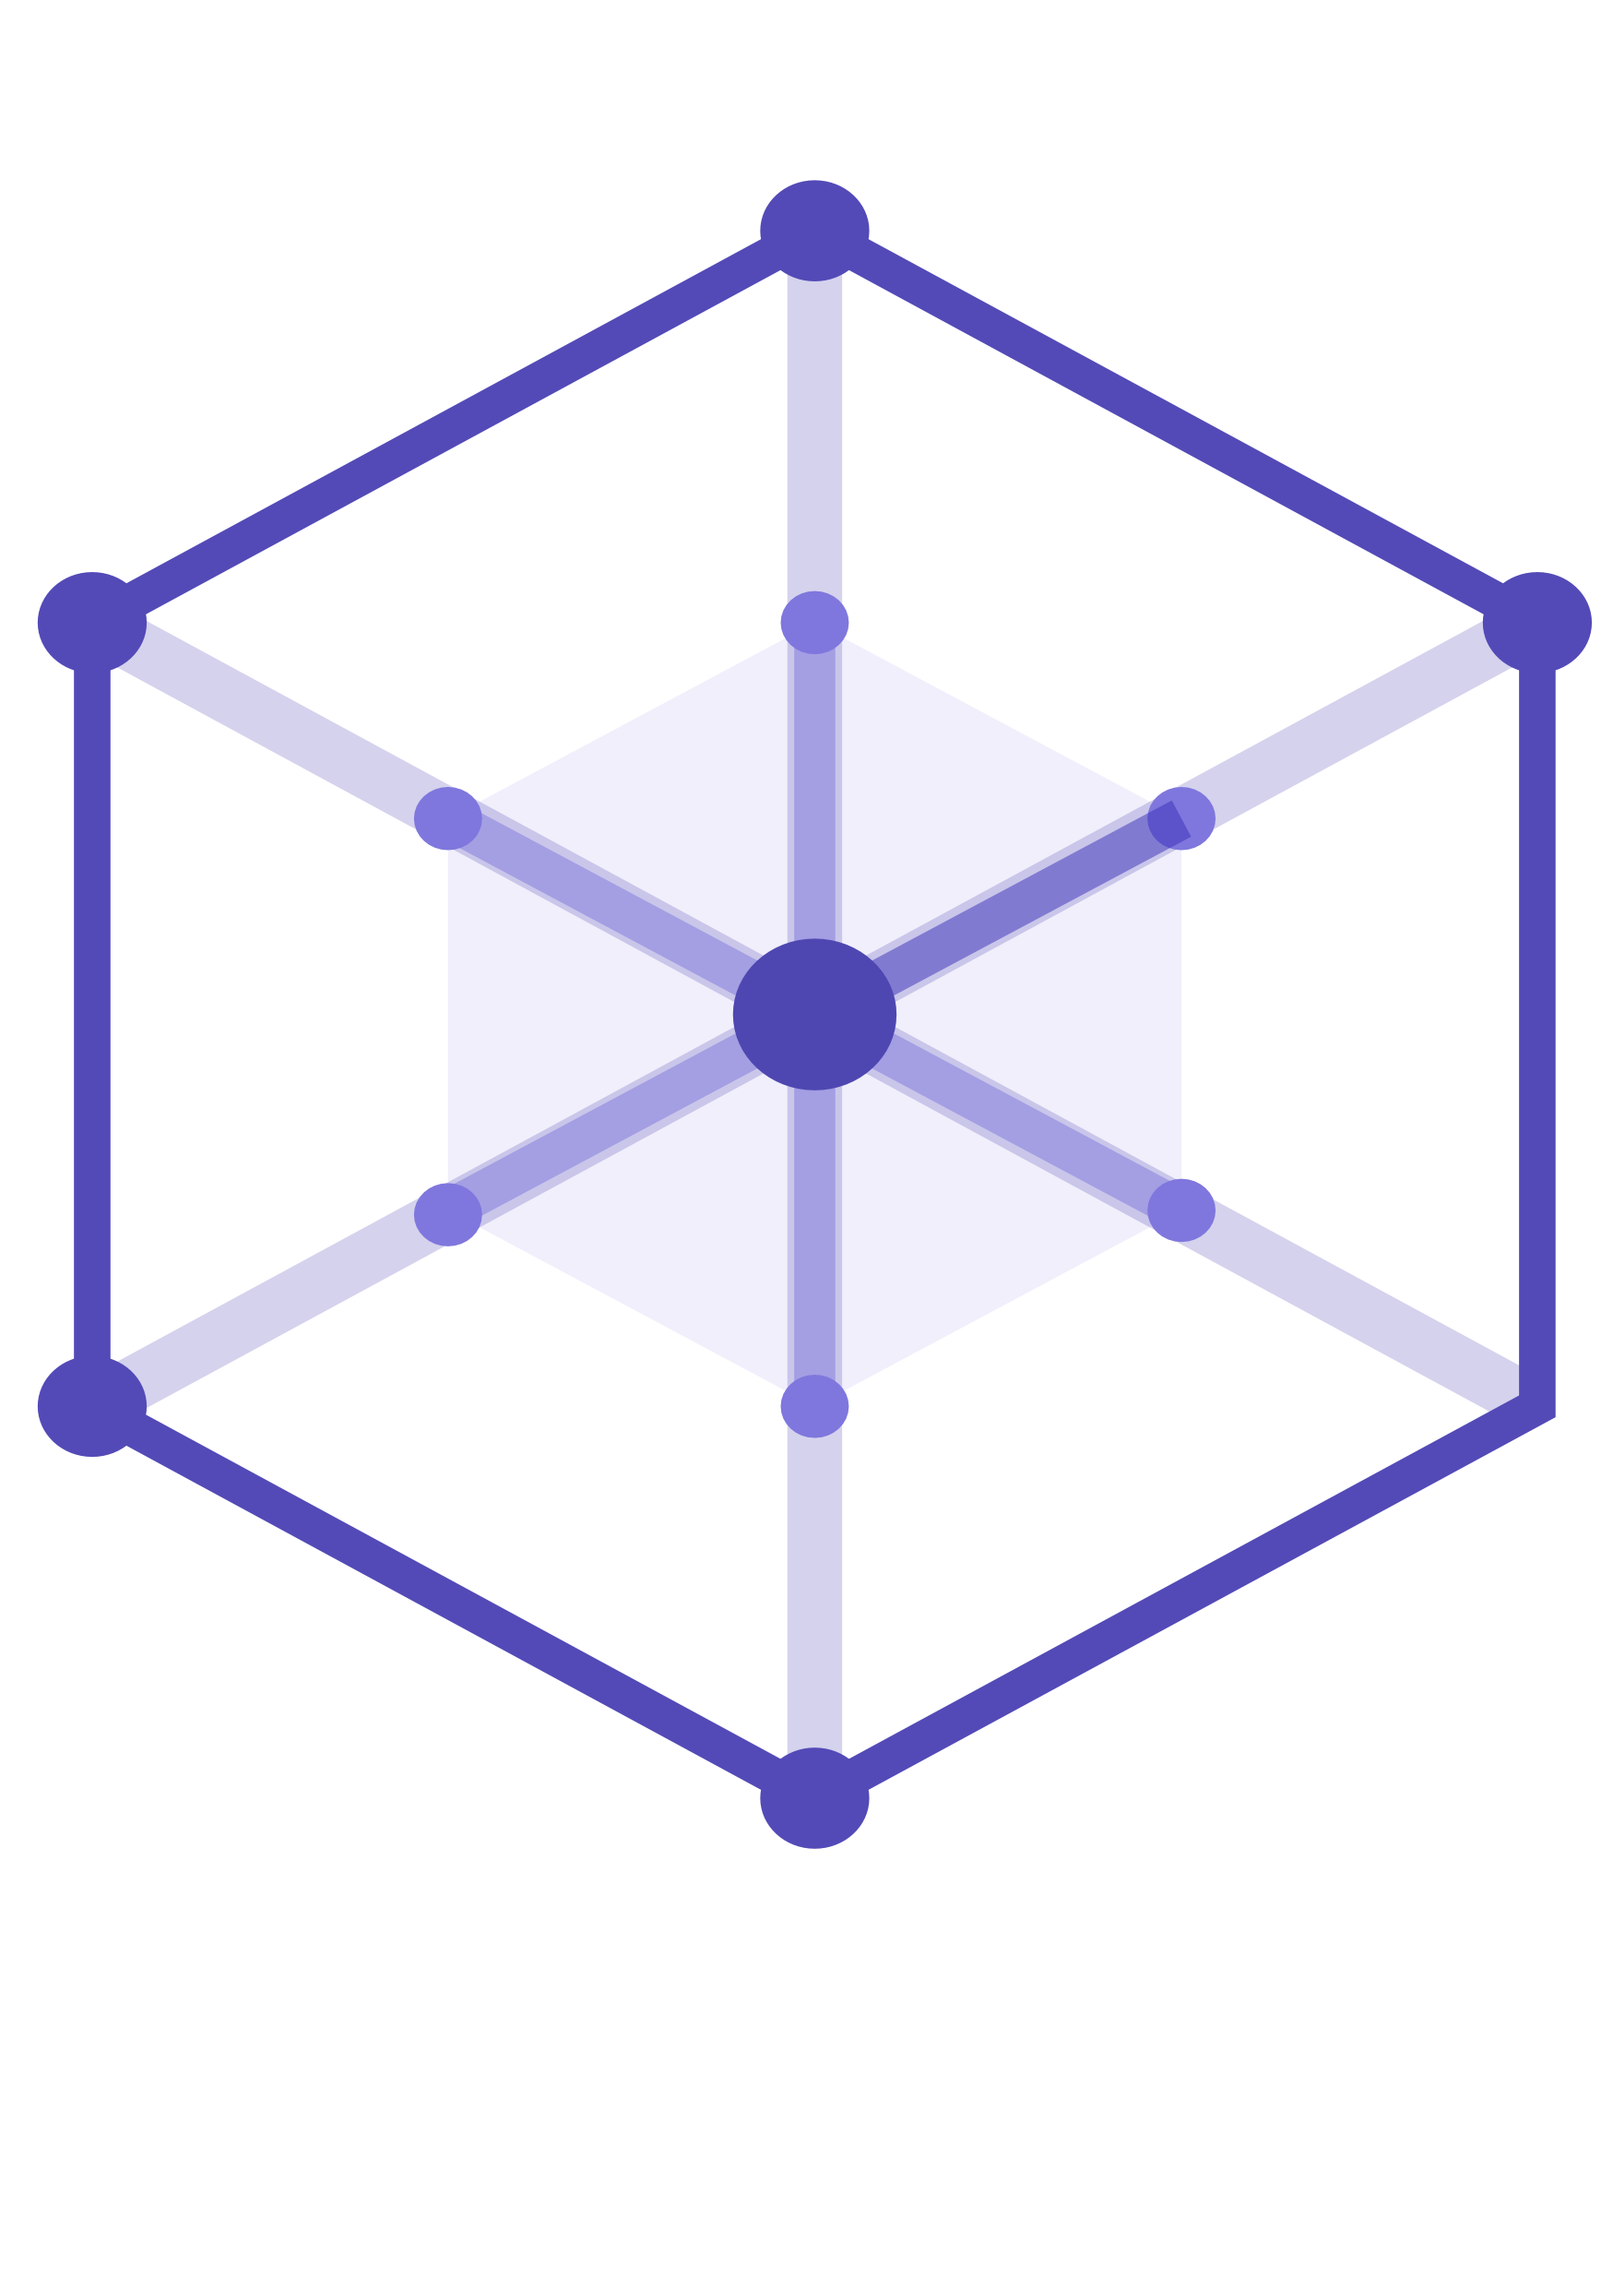
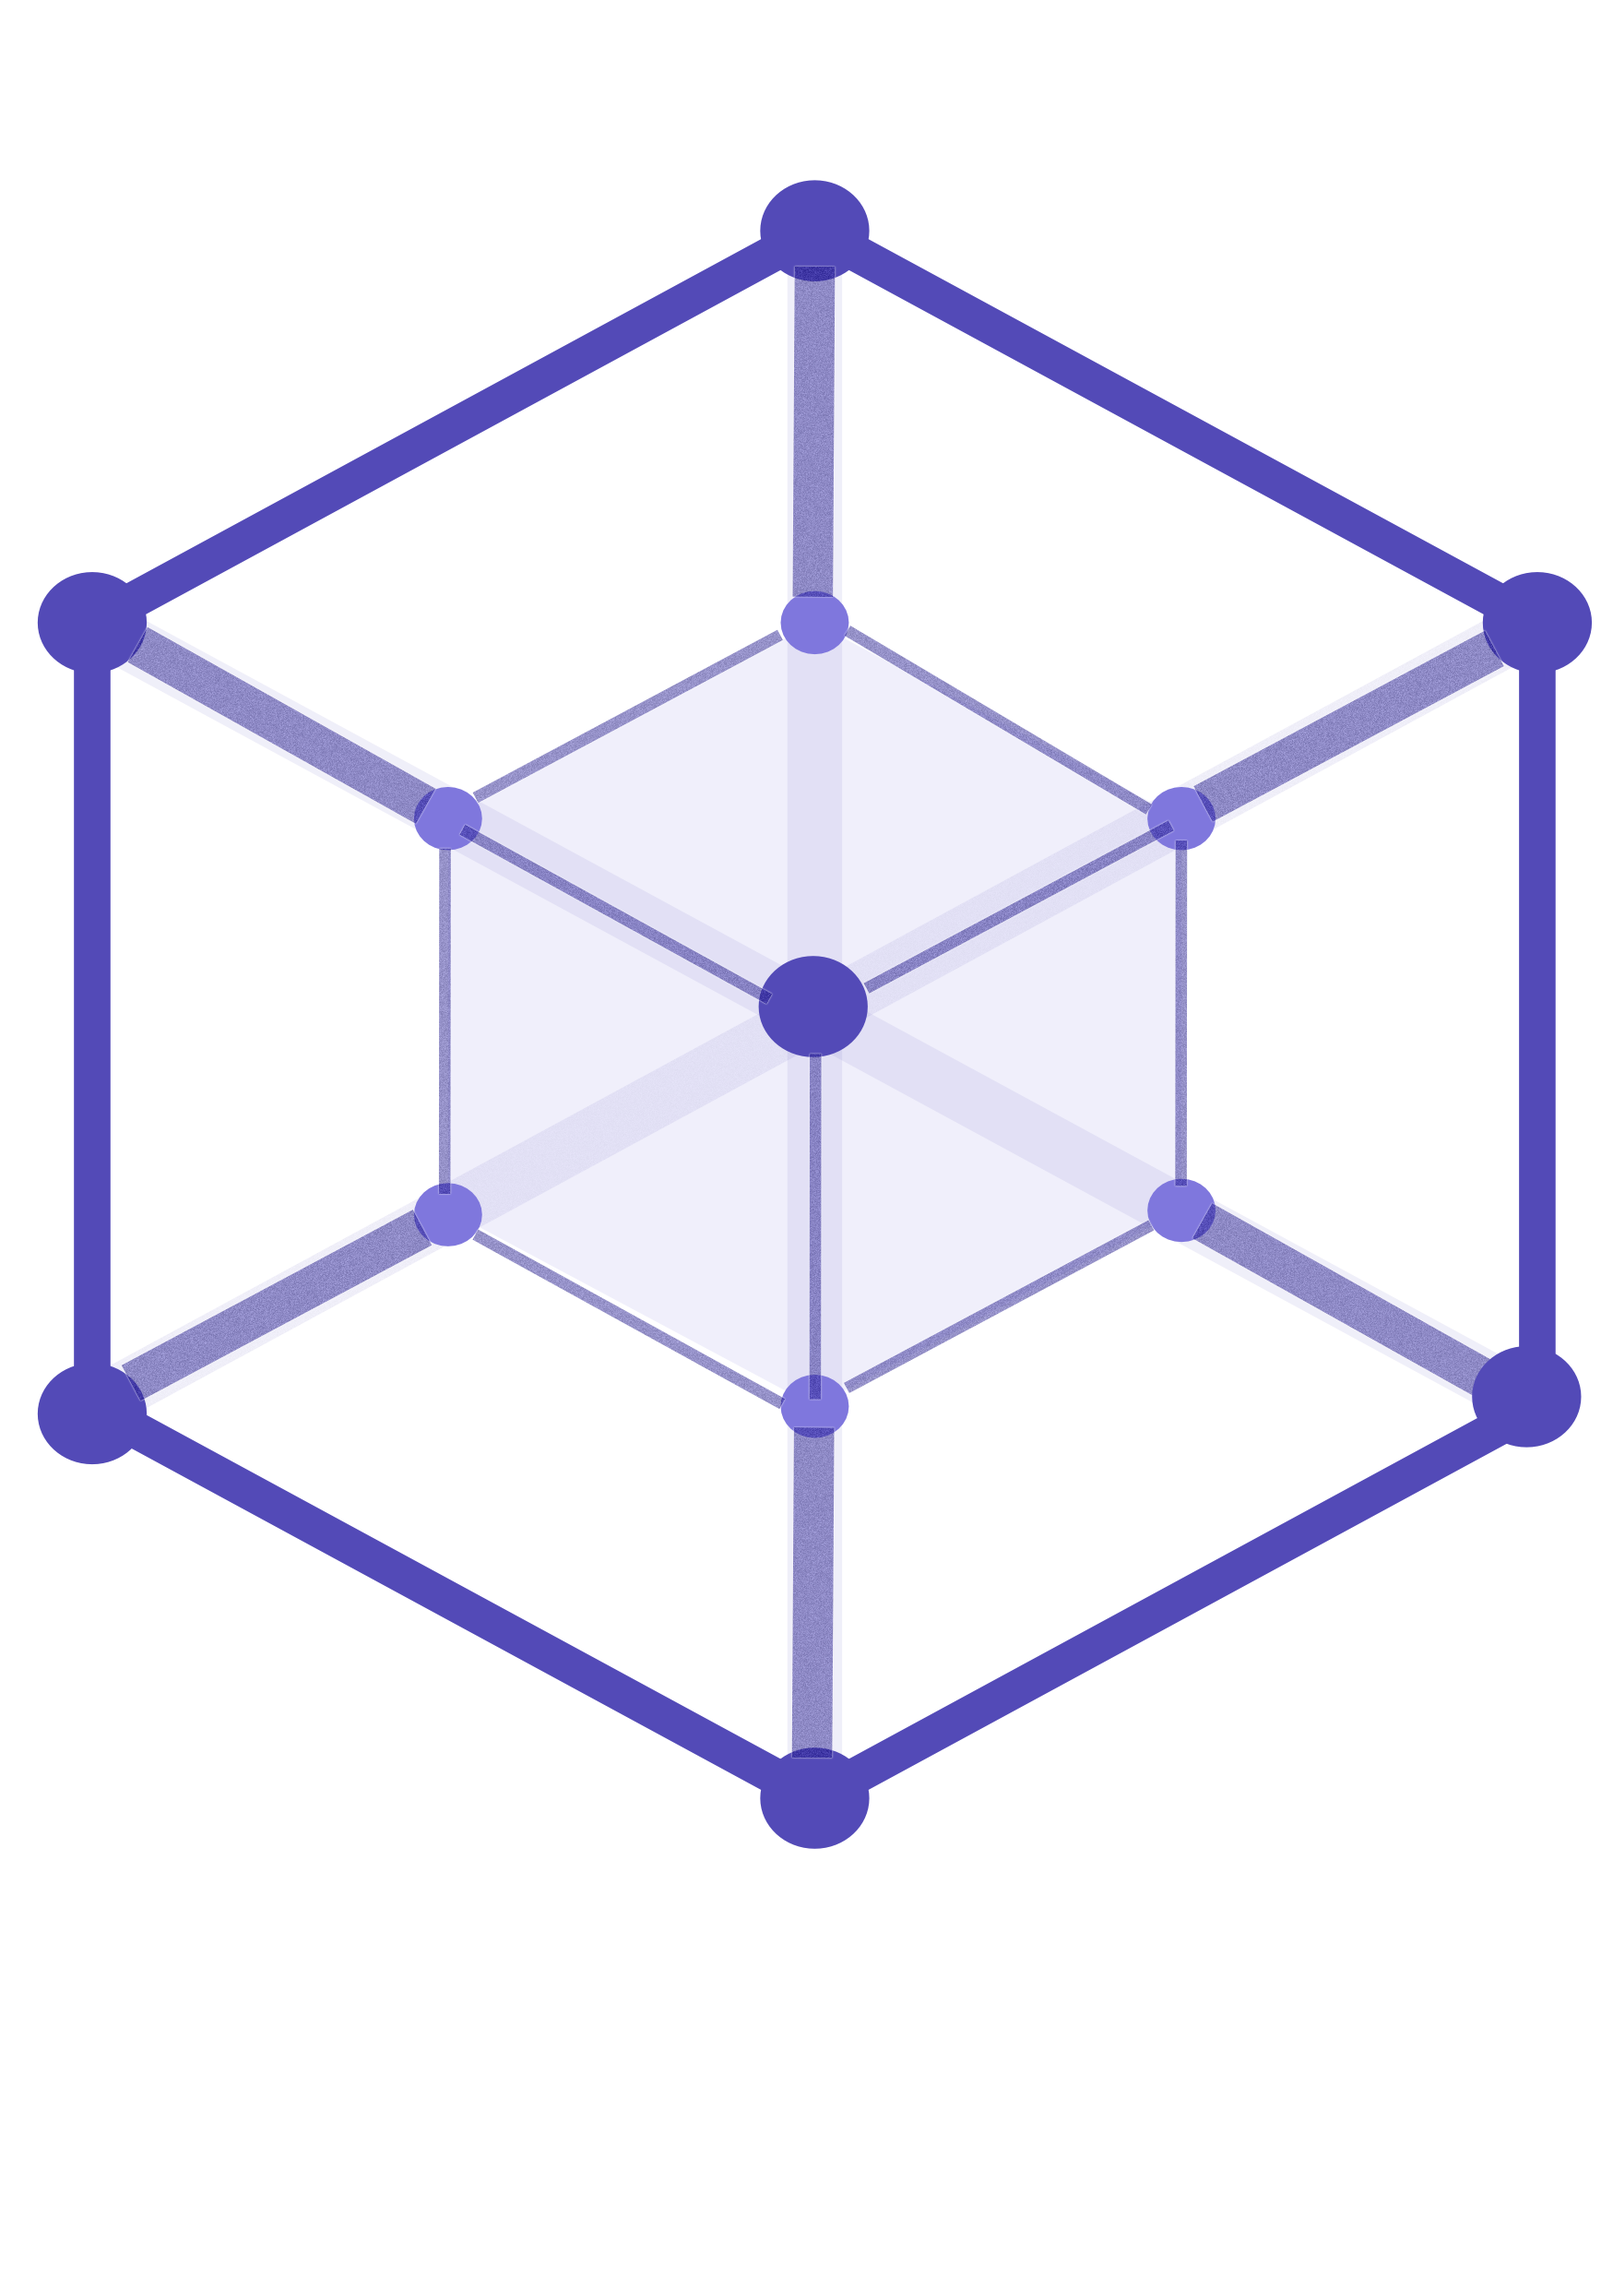
success message for send message

diff --git a/index.html b/index.html
@@ -40,6 +40,53 @@
       from { opacity: 0; transform: translateX(-16px); }
       to { opacity: 1; transform: translateX(0); }
     }
+    @keyframes successSlide {
+      0% {
+        opacity: 0;
+        transform: translateY(16px);
+        filter: blur(4px);
+      }
+      100% {
+        opacity: 1;
+        transform: translateY(0);
+        filter: blur(0);
+      }
+    }
+    @keyframes successPulse {
+      0% {
+        box-shadow: 0 0 0 0 rgba(45, 158, 107, 0.4);
+      }
+      70% {
+        box-shadow: 0 0 0 12px rgba(45, 158, 107, 0);
+      }
+      100% {
+        box-shadow: 0 0 0 0 rgba(45, 158, 107, 0);
+      }
+    }
+    @keyframes errorShakeSlide {
+      0% {
+        opacity: 0;
+        transform: translateX(-20px) rotateZ(-1deg);
+      }
+      50% {
+        transform: translateX(8px) rotateZ(0.5deg);
+      }
+      100% {
+        opacity: 1;
+        transform: translateX(0) rotateZ(0);
+      }
+    }
+    @keyframes errorPulse {
+      0% {
+        box-shadow: 0 0 0 0 rgba(192, 57, 43, 0.5);
+      }
+      70% {
+        box-shadow: 0 0 0 10px rgba(192, 57, 43, 0);
+      }
+      100% {
+        box-shadow: 0 0 0 0 rgba(192, 57, 43, 0);
+      }
+    }
 
     .animate-float { animation: float 4s ease-in-out infinite; }
     .animate-pulse-glow { animation: pulse-glow 3s ease-in-out infinite; }
@@ -157,7 +204,13 @@
     .hex-mark {
       width: 300px;
       height: 300px;
-      animation: float 4s ease-in-out infinite;
+      animation: float 4s ease-in-out infinite, logo-pulse 2s ease-in-out infinite;
+      filter: drop-shadow(0 0 20px rgba(83, 74, 183, 0.4));
+    }
+
+    @keyframes logo-pulse {
+      0%, 100% { filter: drop-shadow(0 0 10px rgba(83, 74, 183, 0.4)); }
+      50% { filter: drop-shadow(0 0 30px rgba(83, 74, 183, 0.8)); }
     }
 
     .hero h1 {
@@ -230,7 +283,7 @@
     .capabilities-frame {
       margin-top: 4rem;
       width: 100%;
-      max-width: 650px;
+      max-width: 1105px;
       margin-left: auto;
       margin-right: auto;
       border: 0.5px solid rgba(0, 0, 0, 0.08);
@@ -244,42 +297,42 @@
       display: flex;
       align-items: center;
       gap: 6px;
-      padding: 12px 16px;
+      padding: 20px 27px;
       border-bottom: 0.5px solid rgba(0, 0, 0, 0.06);
       background: #F9F9FB;
     }
 
     .frame-dot {
-      width: 9px;
-      height: 9px;
+      width: 15px;
+      height: 15px;
       border-radius: 50%;
     }
 
     .frame-title {
-      font-size: 11px;
+      font-size: 18px;
       color: rgba(0, 0, 0, 0.25);
       margin: 0 auto;
       letter-spacing: 0.02em;
     }
 
     .frame-body {
-      padding: 20px;
+      padding: 34px;
       display: flex;
       flex-direction: column;
-      gap: 15px;
+      gap: 25px;
     }
 
     .cap-grid {
       display: grid;
       grid-template-columns: 1fr 1fr;
-      gap: 10px;
+      gap: 17px;
     }
 
     .cap-card {
       background: #F7F7FA;
       border: 0.5px solid rgba(0, 0, 0, 0.07);
       border-radius: 6px;
-      padding: 14px 16px;
+      padding: 24px 27px;
     }
 
     .cap-card.accent {
@@ -288,8 +341,8 @@
     }
 
     .cap-icon {
-      font-size: 16px;
-      margin-bottom: 8px;
+      font-size: 27px;
+      margin-bottom: 13px;
       color: rgba(0, 0, 0, 0.3);
     }
 
@@ -298,11 +351,11 @@
     }
 
     .cap-title {
-      font-size: 13px;
+      font-size: 22px;
       font-weight: 500;
       color: rgba(0, 0, 0, 0.6);
       letter-spacing: -0.01em;
-      margin-bottom: 4px;
+      margin-bottom: 7px;
     }
 
     .cap-card.accent .cap-title {
@@ -310,7 +363,7 @@
     }
 
     .cap-desc {
-      font-size: 11px;
+      font-size: 18px;
       color: rgba(0, 0, 0, 0.35);
       letter-spacing: 0.01em;
       line-height: 1.5;
@@ -320,15 +373,15 @@
       display: flex;
       align-items: center;
       justify-content: space-between;
-      padding: 10px 4px 0;
+      padding: 17px 7px 0;
       border-top: 0.5px solid rgba(0, 0, 0, 0.05);
-      margin-top: 2px;
+      margin-top: 3px;
       flex-wrap: wrap;
-      gap: 6px;
+      gap: 10px;
     }
 
     .frame-footer-text {
-      font-size: 10px;
+      font-size: 17px;
       color: rgba(0, 0, 0, 0.28);
       letter-spacing: 0.06em;
       text-transform: uppercase;
@@ -337,17 +390,17 @@
     .frame-footer-status {
       display: flex;
       align-items: center;
-      gap: 5px;
-      font-size: 10px;
+      gap: 8px;
+      font-size: 17px;
       color: rgba(0, 0, 0, 0.35);
     }
 
     .status-dot {
-      width: 6px;
-      height: 6px;
+      width: 10px;
+      height: 10px;
       border-radius: 50%;
       background: #2d9e6b;
-      box-shadow: 0 0 4px rgba(45, 158, 107, 0.6);
+      box-shadow: 0 0 7px rgba(45, 158, 107, 0.6);
     }
 
     /* ── STATS ── */
@@ -789,6 +842,7 @@
       background: rgba(45, 158, 107, 0.08);
       border: 0.5px solid rgba(45, 158, 107, 0.25);
       color: #0A0914;
+      animation: successSlide 0.8s cubic-bezier(0.34, 1.56, 0.64, 1) forwards, successPulse 1.2s ease-out 0.3s forwards;
     }
 
     .success-icon {
@@ -800,6 +854,7 @@
       background: rgba(192, 57, 43, 0.08);
       border: 0.5px solid rgba(192, 57, 43, 0.25);
       color: #c0392b;
+      animation: errorShakeSlide 0.6s cubic-bezier(0.34, 1.56, 0.64, 1) forwards, errorPulse 1s ease-out 0.2s forwards;
     }
 
     /* ── FOOTER ── */
@@ -911,7 +966,7 @@
     <div class="hex-container animate-fade-up delay-100">
       <div class="hex-glow"></div>
       <svg class="hex-mark animate-float" style="width: 300px; height: 300px;">
-        <image href="./Log.png" width="250" height="250" preserveAspectRatio="xMidYMid meet"/>
+        <image href="./Log.png" width="300" height="300" preserveAspectRatio="xMidYMid meet"/>
       </svg>
     </div>
 
